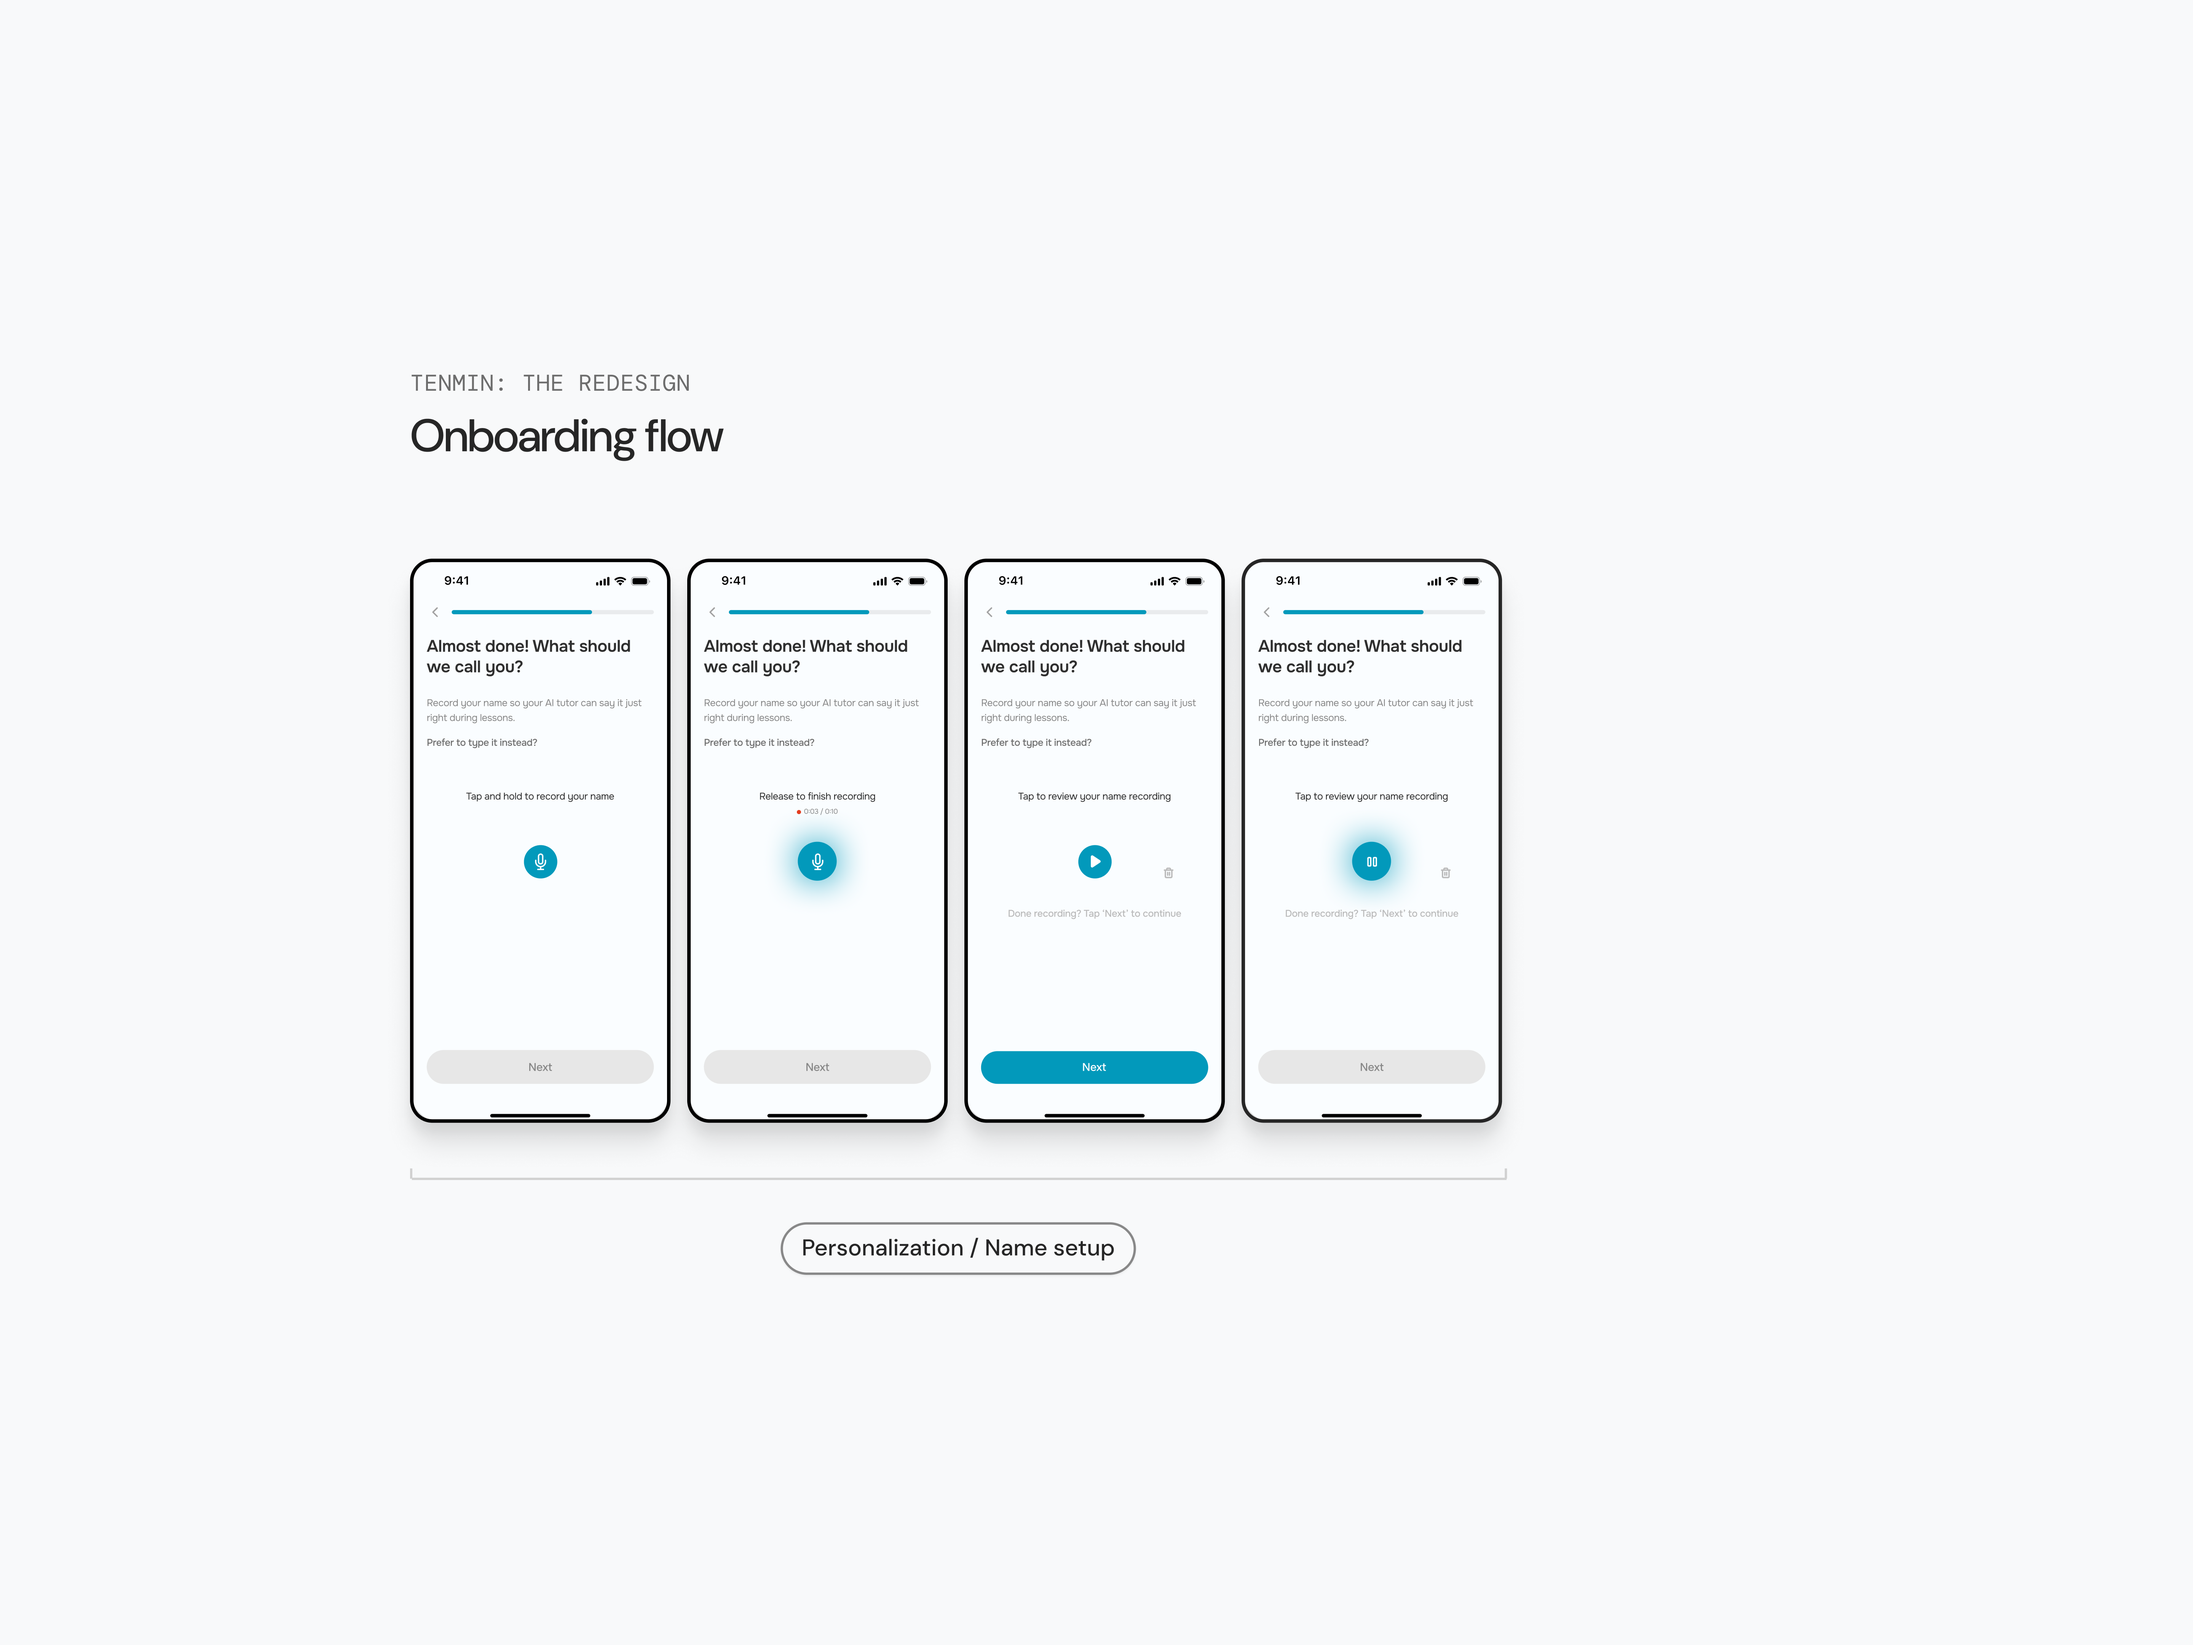
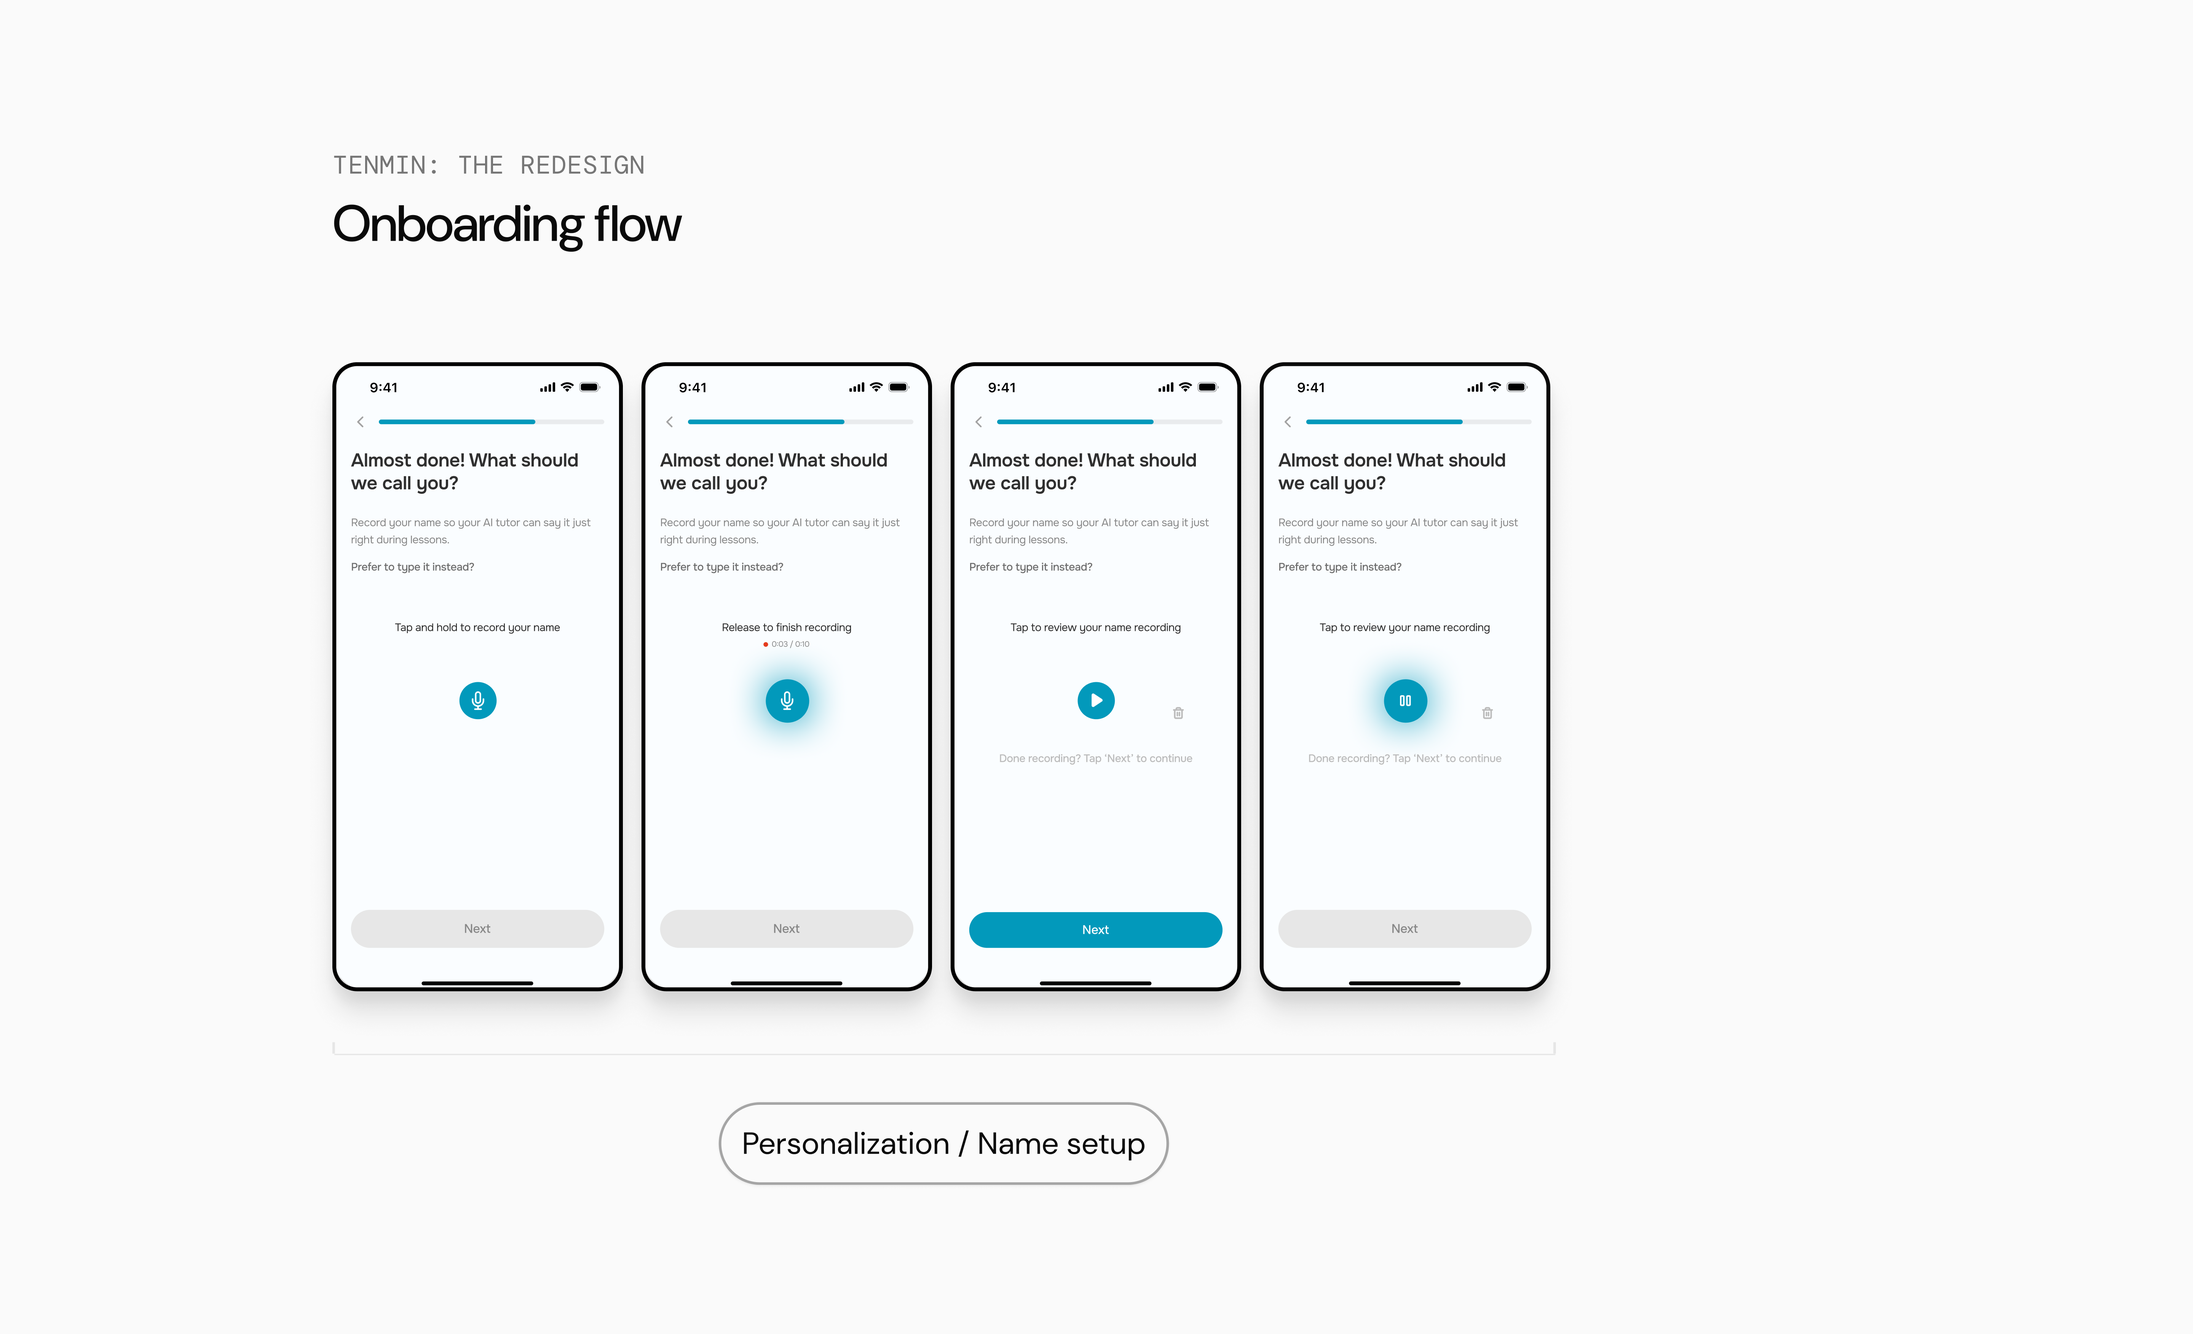
Match case study frames to the re-exported artwork
Six of the stills came back cropped to 120:73 rather than 4:3, so the
frames they sit in were the wrong shape and cover was trimming the
edges. Take each ratio from the file itself; two images are still 4:3
and keep that.

Raise the media srcset while here. It topped out at 1760 against a
frame that asks for 1200 CSS px, which left retina displays scaling up
from below what they needed.

diff --git a/src/data/site.ts b/src/data/site.ts
@@ -207,12 +207,12 @@ export const projects: Project[] = [
             {
               src: 'before-onboarding.png',
               alt: 'The original Tenmin onboarding screens before the redesign',
-              ratio: '4 / 3',
+              ratio: '120 / 73',
             },
             {
               src: 'before-review-screen.png',
               alt: 'The original Tenmin review screen before the redesign',
-              ratio: '4 / 3',
+              ratio: '120 / 73',
             },
           ],
           lead: 'User interviews revealed a key issue: many people didn\u2019t realize who or what the AI tutor was until later in the experience',
@@ -259,7 +259,7 @@ export const projects: Project[] = [
             {
               src: 'after-onboarding.png',
               alt: 'The redesigned Tenmin onboarding sequence',
-              ratio: '4 / 3',
+              ratio: '120 / 73',
             },
             {
               src: 'after-review-screen.png',
@@ -292,7 +292,7 @@ export const projects: Project[] = [
             {
               src: 'design-assets.png',
               alt: 'Illustration and component assets from the Tenmin design system',
-              ratio: '4 / 3',
+              ratio: '120 / 73',
             },
             {
               src: 'after-onboarding-whole.png',
@@ -302,12 +302,12 @@ export const projects: Project[] = [
             {
               src: 'after-onboarding-1.png',
               alt: 'Redesigned onboarding screens, first detail view',
-              ratio: '4 / 3',
+              ratio: '120 / 73',
             },
             {
               src: 'after-onboarding-2.png',
               alt: 'Redesigned onboarding screens, second detail view',
-              ratio: '4 / 3',
+              ratio: '120 / 73',
             },
           ],
           lead: 'Early feedback suggested that the onboarding fostered stronger emotional engagement and helped users quickly understand the AI tutor\u2019s role',
